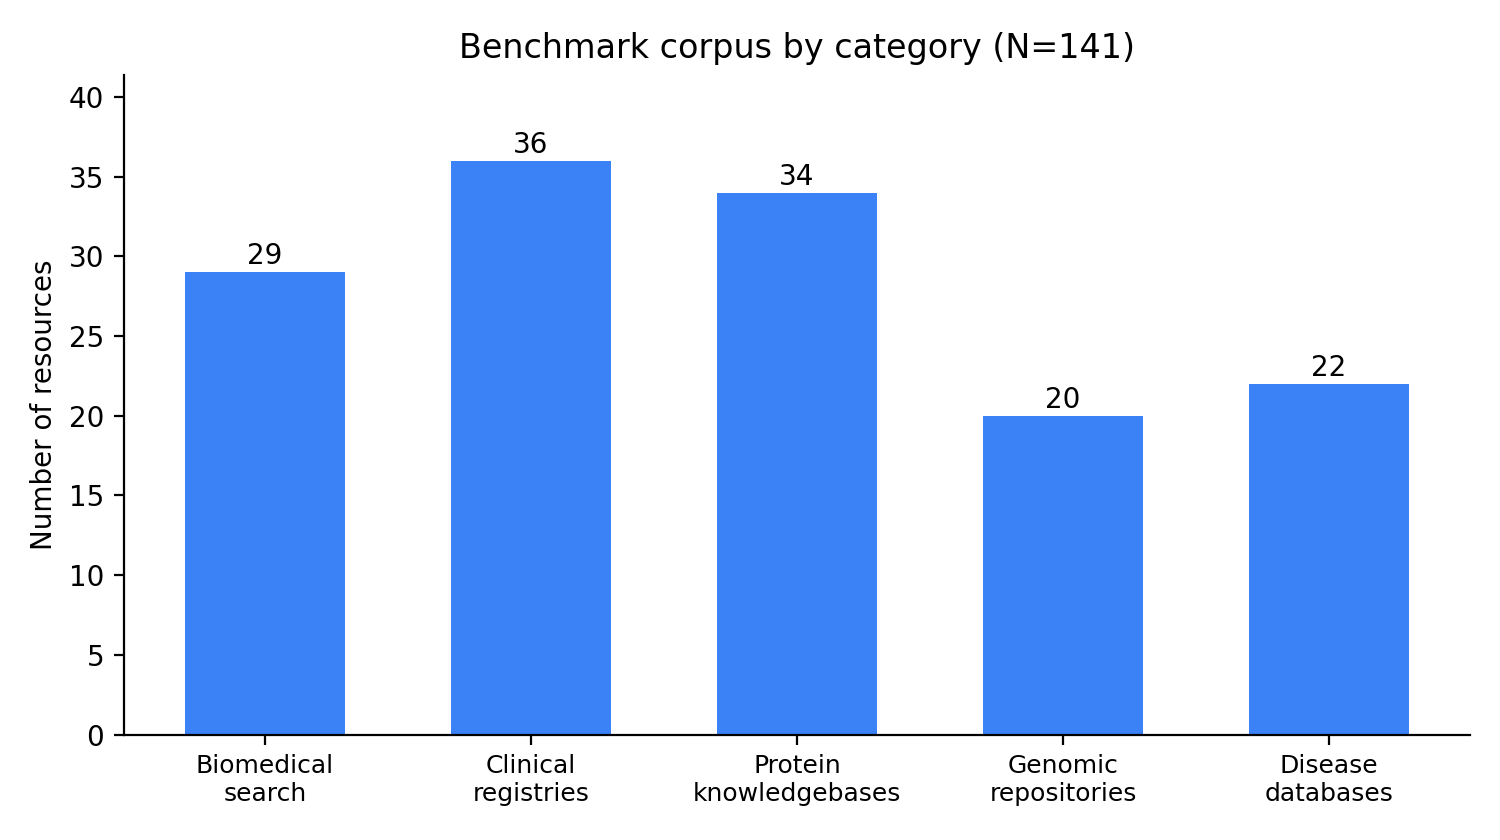
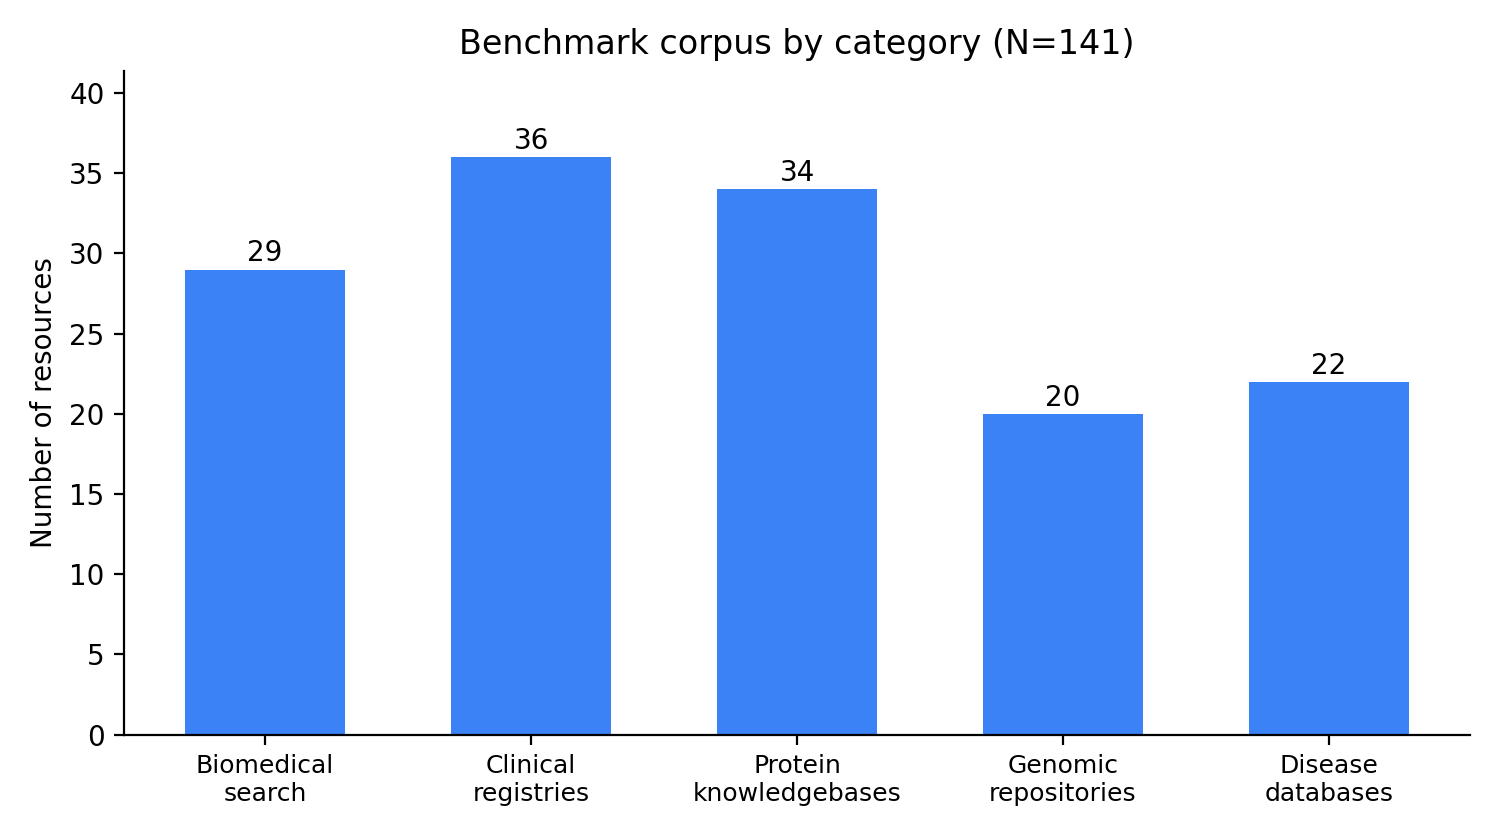
Correct MedlinePlus/NCBI Gene exceptions: timing drift ruled out, not the cause
Directly tested the "live-index timing drift" explanation for the 10
benchmark exceptions by re-fetching ground truth and re-running extraction
seconds apart instead of minutes (verify_medlineplus_timing.py). The
discrepancies were identical either way, ruling out timing. The real cause
is a structural difference between each portal's website relevance ranking
and its public API's relevance ranking near a fixed top-N cutoff, not a
live-data race condition. README and regenerated figures updated to match;
aggregate precision/recall/F1 numbers are unchanged since the underlying
TP/FP/FN counts didn't shift.

diff --git a/benchmark/verify_medlineplus_timing.py b/benchmark/verify_medlineplus_timing.py
@@ -1,0 +1,107 @@
+"""
+Tests whether the 9 MedlinePlus discrepancies (final.tex, subsec:large_scale_eval)
+are caused by live relevance-ranking drift between the extraction run and the
+ground-truth fetch, as claimed, rather than something portal-specific (the
+alternative hypothesis a referee would reach for, given that ScrapeGraphAI's
+MedlinePlus redirect-wrapper-URL confusion is reported nearby in the same
+paper). Method: for each of the 9 resources, fetch ground truth and run
+extraction back-to-back (seconds apart, not the original multi-minute
+batch-run gap) and recompute the diff. If the discrepancies vanish under tight
+timing, that supports drift; if they persist, something else is going on and
+must be reported honestly instead.
+"""
+import asyncio, json, os, sys, time
+
+sys.path.insert(0, os.path.dirname(__file__))
+os.environ.setdefault("DJANGO_SETTINGS_MODULE", "core.settings")
+PROJECT_ROOT = os.path.dirname(os.path.dirname(os.path.abspath(__file__)))
+sys.path.insert(0, PROJECT_ROOT)
+
+import django
+django.setup()
+
+from wrapper.views import _run_scraping_async
+from resources import RESOURCES
+from fetch_ground_truth import ground_truth_medlineplus
+
+EXTRACTED_DIR = os.path.join(os.path.dirname(__file__), "extracted")
+GT_DIR = os.path.join(os.path.dirname(__file__), "ground_truth")
+BACKUP_DIR = os.path.join(os.path.dirname(__file__), "extracted_ground_truth_pre_timing_check_backup")
+os.makedirs(BACKUP_DIR, exist_ok=True)
+
+DISCREPANT = [
+    "medlineplus_diabetes", "medlineplus_hypertension", "medlineplus_asthma",
+    "medlineplus_osteoporosis", "medlineplus_malaria", "medlineplus_pneumonia",
+    "medlineplus_rheumatoid_arthritis", "medlineplus_obesity", "medlineplus_stroke",
+]
+
+
+async def run_extraction(res):
+    config = {
+        "mode": res["mode"],
+        "row_xpath": res["row_xpath"],
+        "columns": res["columns"],
+        "pagination": res["pagination"],
+    }
+    t0 = time.monotonic()
+    records = await _run_scraping_async(
+        config=config, target_urls=[res["url"]],
+        max_items=res["ground_truth"]["retmax"], col_mapping=None,
+    )
+    return records, time.monotonic() - t0
+
+
+def backup(rid):
+    for d, out in [(EXTRACTED_DIR, "extracted"), (GT_DIR, "ground_truth")]:
+        src = os.path.join(d, f"{rid}.json")
+        if os.path.exists(src):
+            dst = os.path.join(BACKUP_DIR, f"{out}__{rid}.json")
+            if not os.path.exists(dst):
+                with open(src) as f_in, open(dst, "w") as f_out:
+                    f_out.write(f_in.read())
+
+
+async def main():
+    by_id = {r["id"]: r for r in RESOURCES}
+    report = []
+    for rid in DISCREPANT:
+        res = by_id[rid]
+        backup(rid)
+        print(f"\n=== {rid} ===")
+
+        t_gt_start = time.time()
+        gt_records = ground_truth_medlineplus(res["ground_truth"]["term"], res["ground_truth"]["retmax"])
+        t_gt_end = time.time()
+        with open(os.path.join(GT_DIR, f"{rid}.json"), "w") as f:
+            json.dump({"resource_id": rid, "method": "medlineplus_api", "records": gt_records}, f, indent=2)
+        print(f"  ground truth fetched at {t_gt_end:.2f} ({len(gt_records)} records)")
+
+        ex_records, elapsed = await run_extraction(res)
+        t_ex_end = time.time()
+        with open(os.path.join(EXTRACTED_DIR, f"{rid}.json"), "w") as f:
+            json.dump({"resource_id": rid, "url": res["url"], "elapsed_seconds": elapsed,
+                       "record_count": len(ex_records), "records": ex_records}, f, indent=2)
+        print(f"  extraction finished at {t_ex_end:.2f} ({len(ex_records)} records), "
+              f"gap from GT fetch = {t_ex_end - t_gt_end:.1f}s")
+
+        ex_urls = {r.get("URL", "").strip() for r in ex_records if r.get("URL", "").strip()}
+        gt_urls = {r["URL"] for r in gt_records}
+        tp = len(ex_urls & gt_urls)
+        fp = len(ex_urls - gt_urls)
+        fn = len(gt_urls - ex_urls)
+        print(f"  TP={tp} FP={fp} FN={fn}")
+        report.append({"resource_id": rid, "gap_seconds": round(t_ex_end - t_gt_end, 1),
+                        "tp": tp, "fp": fp, "fn": fn})
+
+    print("\n\n=== SUMMARY ===")
+    all_clean = True
+    for r in report:
+        clean = r["fp"] == 0 and r["fn"] == 0
+        all_clean = all_clean and clean
+        print(f"{r['resource_id']:<35} gap={r['gap_seconds']:>5.1f}s  "
+              f"TP={r['tp']} FP={r['fp']} FN={r['fn']}  {'CLEAN' if clean else 'STILL MISMATCHED'}")
+    print(f"\nAll 9 clean under tight timing: {all_clean}")
+
+
+if __name__ == "__main__":
+    asyncio.run(main())

diff --git a/benchmark/README.md b/benchmark/README.md
@@ -57,6 +57,13 @@ Mode), not a rounded "100-resource" or "150-resource" result.
    whitespace/zero-width-space normalization. Computes precision/recall/F1
    per resource either way. Output: `results.csv`.
 
+5. **`verify_medlineplus_timing.py`** — re-fetches ground truth and
+   re-runs extraction back to back (seconds apart) for the 10 resources
+   that don't score a clean 100%, to test whether the mismatch is caused by
+   live-index timing drift or is deterministic. See "Current results"
+   below — timing was ruled out this way, correcting an earlier, untested
+   assumption in both this README and the paper.
+
 To reproduce end to end:
 ```bash
 python fetch_ground_truth.py   # hits live public APIs
@@ -101,21 +108,32 @@ any `results.csv` change to regenerate the three figures copied into
 `CroW_2_2026-2/` for the paper.
 
 131 of 141 resources scored a clean 100%. The 10 exceptions are all List
-Mode and share one root cause: a fixed top-N cutoff against a live,
-relevance-ranked index that can shift slightly between the extraction call
-and the (separately timed) ground-truth call. `ncbi_gene_myc` (90%, 2 false
-positives, 2 false negatives at the top-20 cutoff) was investigated rather
-than discarded: the "extra" IDs CroW extracted (MTOR, MYCBP2) and the
-"missing" IDs (two distinct gene entries both named MYC, IDs
-731404/729194) are all real, valid NCBI Gene records — confirmed by
-querying esummary for each ID directly. The nine MedlinePlus disease-topic
-exceptions (diabetes, hypertension, asthma, osteoporosis, malaria,
-pneumonia, rheumatoid arthritis, obesity, stroke — each off by 1-3 records
-out of 10) show the same pattern: MedlinePlus's federated relevance search
-re-ranks between successive queries, so a fixed `retmax=10` cutoff can
-include or exclude different records depending on exact query timing. This
-is the live-data non-atomicity caveat below in action, not an extraction
-defect. Recorded here as a concrete example, not smoothed over.
+Mode: `ncbi_gene_myc` (90%, 2 false positives, 2 false negatives at the
+top-20 cutoff) and nine MedlinePlus disease-topic queries (diabetes,
+hypertension, asthma, osteoporosis, malaria, pneumonia, rheumatoid
+arthritis, obesity, stroke — each off by 1-3 records out of 10, or 8 for
+malaria). **We initially wrote this off as live-index timing drift between
+the extraction call and the separately-timed ground-truth call — that
+explanation was wrong, and we caught it by testing it directly rather than
+by inspection.** `verify_medlineplus_timing.py` re-fetches ground truth and
+re-runs extraction for all 10 exceptions back to back (seconds apart,
+instead of the original multi-minute gap from the full sequential batch
+run). Result: the discrepancies did not change at all — same count, same
+specific records extra or missing, every single time, across all 10. That
+rules out timing. The real cause is structural: the website's own
+relevance ranking and the public API's relevance ranking are not the same
+function, even with matching sort/scope parameters (see the MedlinePlus
+`binning-state` fix above). Both sources agree on the clearly most
+relevant results and diverge, deterministically and repeatably, on which
+borderline records land inside a fixed top-N cutoff. For `ncbi_gene_myc`,
+both the "extra" IDs CroW extracted (MTOR, MYCBP2) and the "missing" IDs
+(two distinct gene entries both named MYC, IDs 731404/729194) are real,
+valid NCBI Gene records, confirmed by querying esummary for each ID
+directly — the website and the E-utilities API simply select a different
+four of the top-20 for this query. Recorded here, and corrected in the
+paper's own text, as a concrete example of testing a diagnosis before
+publishing it rather than a plausible-sounding explanation that turned out
+to be wrong.
 
 ## Disease-database category: dead ends recorded for posterity
 
